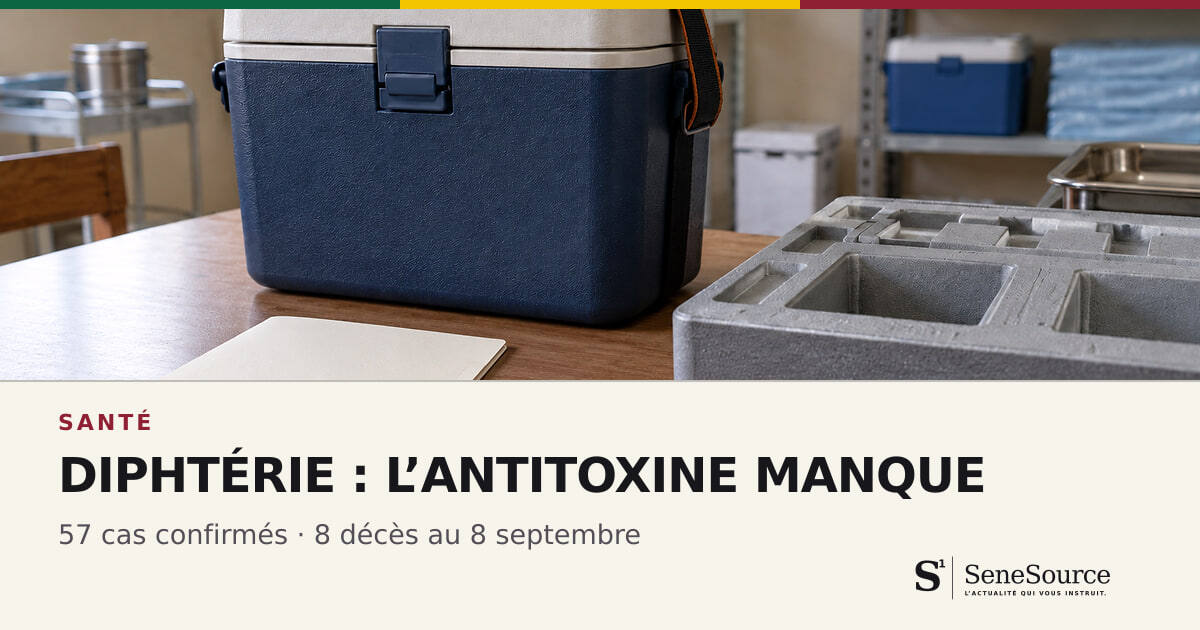
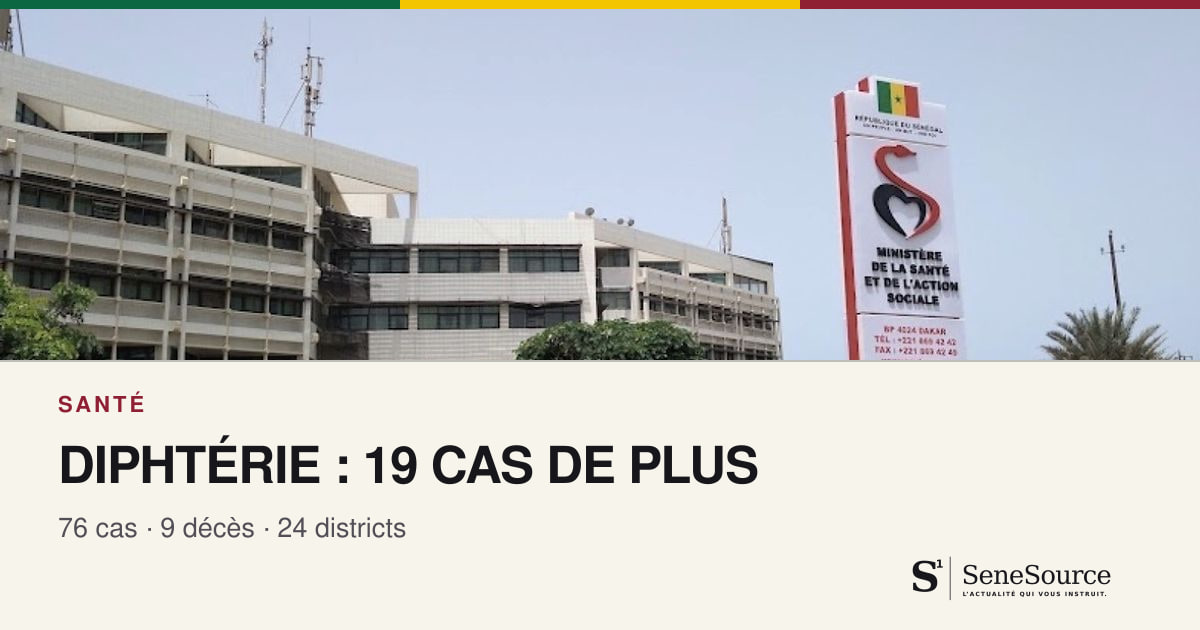
content: actualiser le dossier 062 sur la diphterie

diff --git a/social/062-diphterie-antitoxine-senegal.md b/social/062-diphterie-antitoxine-senegal.md
@@ -1,29 +1,29 @@
 # Publication X — Lanceur d’alerte
 
-8 décès parmi 57 cas confirmés de diphtérie au Sénégal au 8 septembre : le ratio brut atteint 14 %, soit environ un décès pour sept cas recensés. Un responsable sanitaire affirme que l’antitoxine, le médicament qui neutralise la toxine encore présente dans le corps, n’est pas disponible et que des démarches sont en cours par l’intermédiaire de l’OMS. Mais aucune date d’arrivée, quantité ou répartition entre les régions n’est publiée. On ne peut pas attribuer chaque décès à cette seule pénurie sans connaître le statut vaccinal, le délai de consultation et les traitements reçus. Nous demandons le calendrier d’approvisionnement, le protocole appliqué en attendant et un bilan clinique anonymisé. Vacciner protège contre les prochains cas ; cela ne remplace pas le traitement des malades déjà atteints.
+19 cas de diphtérie supplémentaires figurent dans les bilans publiés en cinq jours : le total est passé de 57 à 76, soit environ +33 %, avec neuf décès et 24 districts concernés. Le ministère demande aux parents de vérifier la vaccination des enfants. C’est nécessaire, mais il ne publie toujours pas le statut vaccinal des malades, les doses disponibles par district, le nombre de contacts protégés ni la date d’arrivée de l’antitoxine déclarée indisponible. Attention : le premier bulletin parlait de cas « confirmés » et le second de cas « recensés » ; cette définition doit aussi être clarifiée. Nous demandons les stocks, les lieux de rattrapage, le profil anonymisé des cas et le suivi des contacts. En cas de signes suspects, on consulte sans délai et on évite l’automédication.
 
 Article SeneSource : https://senesource.com/article/062-diphterie-antitoxine-senegal/
 
 # Facebook
 
-8 décès figuraient parmi 57 cas confirmés de diphtérie au Sénégal au 8 septembre. Cela représente un ratio brut de 14 %, soit environ un décès pour sept cas recensés.
+19 cas supplémentaires figurent dans les bilans publiés en cinq jours.
 
-Ce chiffre ne prédit pas l’issue d’un nouveau malade. Il peut évoluer avec le dépistage et ne dit pas, à lui seul, pourquoi chaque personne est décédée. Mais il impose des réponses rapides.
+Le Sénégal est passé de 57 cas confirmés de diphtérie et huit décès au 8 septembre à 76 cas recensés et neuf décès au 13 septembre. Le nouveau bilan concerne 24 districts dans 11 régions. Cela représente une hausse comptable d’environ 33 %.
 
-Le directeur régional de la Santé de Tambacounda affirme que l’antitoxine n’est pas disponible et que des démarches sont en cours par l’intermédiaire de l’OMS. Ce médicament neutralise la toxine qui circule encore dans le corps ; les antibiotiques combattent la bactérie et le vaccin protège contre les formes graves. Ces trois moyens n’ont donc pas la même fonction.
+Pour les familles, la conduite utile est immédiate : vérifier le carnet de vaccination des enfants, compléter les doses manquantes et consulter sans délai en cas de mal de gorge accompagné de fièvre, de difficulté à avaler, d’enrouement, de gonflement du cou ou de difficulté à respirer. Le ministère recommande aussi d’éviter l’automédication.
 
-Le problème est qu’aucune date d’arrivée, quantité commandée ou répartition entre les régions n’est publiée. On ne dispose pas non plus d’un bilan anonymisé précisant, pour chacun des huit décès, l’âge, le statut vaccinal, le délai avant la consultation et les traitements reçus.
+Mais un total national ne suffit pas à évaluer la riposte. Les 76 cas sont-ils tous confirmés en laboratoire ? Quel âge avaient les malades ? Étaient-ils vaccinés ? Où les doses de rattrapage sont-elles disponibles ? Combien de contacts ont été identifiés et protégés ? L’antitoxine annoncée comme indisponible le 14 septembre est-elle arrivée ?
 
-Nous demandons au ministère de publier le calendrier d’approvisionnement, les centres qui recevront les premières doses, le protocole appliqué en attendant et un nouveau bilan national daté. Le cas mortel confirmé à Bakel le 8 septembre doit notamment être clairement intégré — ou non — au total national arrêté le même jour.
+Le passage de 57 à 76 cas doit également être expliqué avec rigueur. Le premier bulletin parlait de cas « confirmés » et le second de cas « recensés ». Tant que le ministère ne précise pas si la définition est identique, on peut comparer les bilans publiés, mais pas affirmer que 19 nouvelles contaminations ont toutes eu lieu en cinq jours.
 
-Pour les familles, la conduite utile aujourd’hui reste de vérifier le carnet vaccinal et de consulter immédiatement en cas de fièvre, mal de gorge, gonflement du cou ou difficulté à respirer.
+Nous demandons la couverture vaccinale et les stocks par district, la liste des structures où compléter gratuitement les doses, le statut vaccinal anonymisé des malades, le suivi des contacts et le calendrier d’approvisionnement en antitoxine.
 
-SeneSource apporte les sources, le calcul, les limites du bilan et les réponses encore attendues : https://senesource.com/article/062-diphterie-antitoxine-senegal/
+SeneSource réunit les bilans successifs, les recommandations officielles et les données qui manquent encore pour vérifier la protection réelle des familles : https://senesource.com/article/062-diphterie-antitoxine-senegal/
 
 # WhatsApp
 
-DIPHTÉRIE : L’ANTITOXINE MANQUE
+DIPHTÉRIE : 19 CAS DE PLUS EN CINQ JOURS
 
-Le Sénégal comptait 57 cas confirmés et huit décès au 8 septembre. L’antitoxine est déclarée indisponible, mais aucune date de livraison n’est publique. Ce qui est établi, ce qui ne l’est pas et les questions urgentes :
+Le bilan est passé de 57 à 76 cas publiés, avec neuf décès dans 24 districts. Que doivent faire les familles, et quelles données sur les vaccins, les traitements et les contacts le ministère doit-il encore publier ?
 
 https://senesource.com/article/062-diphterie-antitoxine-senegal/
